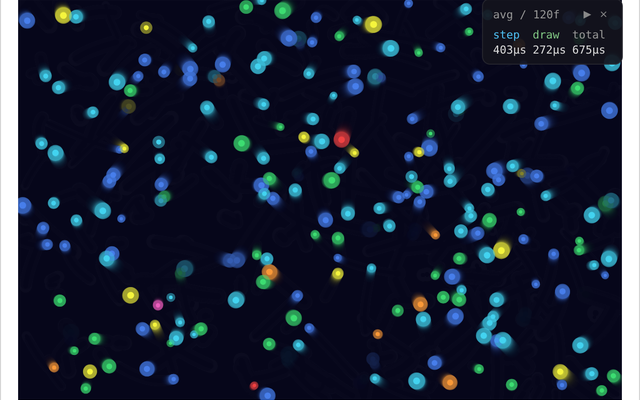
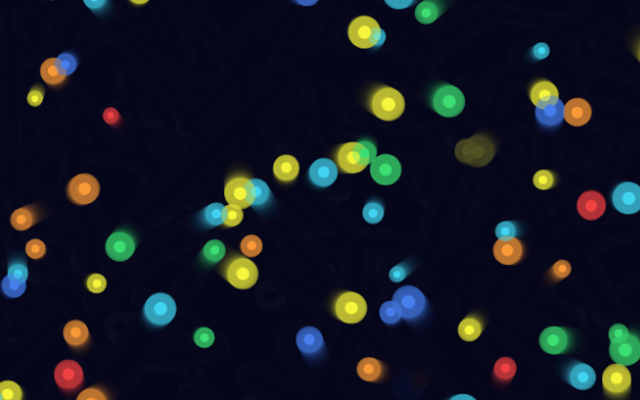
Retune thumbnail captures for the 13 weakest gallery tiles

diff --git a/apps/automatick-docs/src/examples.ts b/apps/automatick-docs/src/examples.ts
@@ -53,20 +53,45 @@ export const EXAMPLES: ExampleMeta[] = [
   { slug: 'automata-1d', label: '1D automata', warmupMs: 8000 },
   { slug: 'percolation', label: 'Percolation' },
   { slug: 'activators', label: 'Activators' },
-  { slug: 'langton-ant', label: "Langton's ant" },
+  // Zoom to the highway-building blob; full frame is mostly empty white.
+  {
+    slug: 'langton-ant',
+    label: "Langton's ant",
+    warmupMs: 6000,
+    focus: { x: 0.28, y: 0.28, width: 0.48, height: 0.48 },
+  },
   { slug: 'segregation', label: 'Segregation' },
-  { slug: 'gravity', label: 'N-body gravity' },
-  { slug: 'boids', label: 'Boids' },
+  // Bodies are tiny at full frame; let orbits develop, then zoom to the core.
+  {
+    slug: 'gravity',
+    label: 'N-body gravity',
+    warmupMs: 6000,
+    focus: { x: 0.25, y: 0.25, width: 0.5, height: 0.5 },
+  },
+  // Feature tile: let flocks form, then zoom in so the birds read at tile size.
+  {
+    slug: 'boids',
+    label: 'Boids',
+    warmupMs: 12000,
+    focus: { x: 0.3, y: 0.28, width: 0.42, height: 0.42 },
+  },
   { slug: 'predator-prey', label: 'Predator–Prey' },
   // Crop to the two corridors up top; the arrivals chart below starts empty.
   {
     slug: 'crowd-compare',
     label: 'Crowd: selfish vs coordinated',
-    focus: { x: 0, y: 0, width: 1, height: 0.52 },
+    focus: { x: 0.03, y: 0.21, width: 0.88, height: 0.27 },
   },
   // Snake grows as it eats; give it time to become a satisfying length.
-  { slug: 'snake', label: 'Snake', warmupMs: 8000 },
-  { slug: 'mazes', label: 'Mazes' },
+  // Snake lives in the lower half of the stage; crop to it.
+  {
+    slug: 'snake',
+    label: 'Snake',
+    warmupMs: 8000,
+    focus: { x: 0.05, y: 0.42, width: 0.9, height: 0.55 },
+  },
+  // Zoom so the thin corridors are legible at tile size.
+  { slug: 'mazes', label: 'Mazes', focus: { x: 0.08, y: 0.08, width: 0.55, height: 0.55 } },
   // Points accumulate into the Sierpinski attractor; needs a long warm-up.
   { slug: 'chaos-game', label: 'Chaos game', warmupMs: 12000 },
   // Accumulated rows fill the canvas top-down; wait for the ring to develop.
@@ -92,16 +117,33 @@ export const EXAMPLES: ExampleMeta[] = [
     warmupMs: 450,
     focus: { x: 0.22, y: 0.42, width: 0.6, height: 0.26 },
   },
-  { slug: 'wave', label: 'Wave propagation' },
+  // Ripples are strongest right after the drop; shoot early and zoom in.
+  {
+    slug: 'wave',
+    label: 'Wave propagation',
+    warmupMs: 1400,
+    focus: { x: 0.22, y: 0.22, width: 0.56, height: 0.56 },
+  },
   { slug: 'physarum', label: 'Slime mold' },
   { slug: 'sugarscape', label: 'Sugarscape' },
   // Opinions start scattered and pale; let them cluster into clear camps.
-  { slug: 'opinion-dynamics', label: 'Opinion dynamics', warmupMs: 9000 },
-  { slug: 'market', label: 'Market' },
+  // Diverging scale fades to near-white at consensus — shoot EARLY, while
+  // opinions are still polarized into vivid blue/red camps.
+  {
+    slug: 'opinion-dynamics',
+    label: 'Opinion dynamics',
+    warmupMs: 300,
+    focus: { x: 0.15, y: 0.12, width: 0.55, height: 0.55 },
+  },
+  // Crop to the price chart itself; full frame is mostly whitespace.
+  { slug: 'market', label: 'Market', warmupMs: 6000, focus: { x: 0.04, y: 0.07, width: 0.82, height: 0.5 } },
   { slug: 'particle-life', label: 'Particle life' },
-  { slug: 'fireworks', label: 'Fireworks' },
-  { slug: 'spring-mass', label: 'Spring-mass' },
-  { slug: 'cloth', label: 'Rope & cloth' },
+  // Time the shot to catch a full burst rather than the gap between launches.
+  { slug: 'fireworks', label: 'Fireworks', warmupMs: 3200, focus: { x: 0.15, y: 0.05, width: 0.7, height: 0.7 } },
+  // Crop to the lattice; full frame leaves it small and off-center.
+  { slug: 'spring-mass', label: 'Spring-mass', warmupMs: 4000, focus: { x: 0.42, y: 0.02, width: 0.36, height: 0.58 } },
+  // Crop to the hanging cloth; give it time to swing into a nice drape.
+  { slug: 'cloth', label: 'Rope & cloth', warmupMs: 4000, focus: { x: 0.45, y: 0, width: 0.55, height: 0.62 } },
   // Bodies fall and settle into a pile at the bottom; wait, then crop to it.
   {
     slug: 'rigid-body',
@@ -109,7 +151,13 @@ export const EXAMPLES: ExampleMeta[] = [
     warmupMs: 5000,
     focus: { x: 0, y: 0.42, width: 1, height: 0.58 },
   },
-  { slug: 'double-pendulum', label: 'Double pendulum' },
+  // Let the trace accumulate into a dense ribbon, then zoom to it.
+  {
+    slug: 'double-pendulum',
+    label: 'Double pendulum',
+    warmupMs: 16000,
+    focus: { x: 0.24, y: 0.18, width: 0.52, height: 0.52 },
+  },
   { slug: 'force-graph', label: 'Force-directed graph' },
   { slug: 'l-systems', label: 'L-systems' },
   { slug: 'terrain', label: 'Terrain' },
